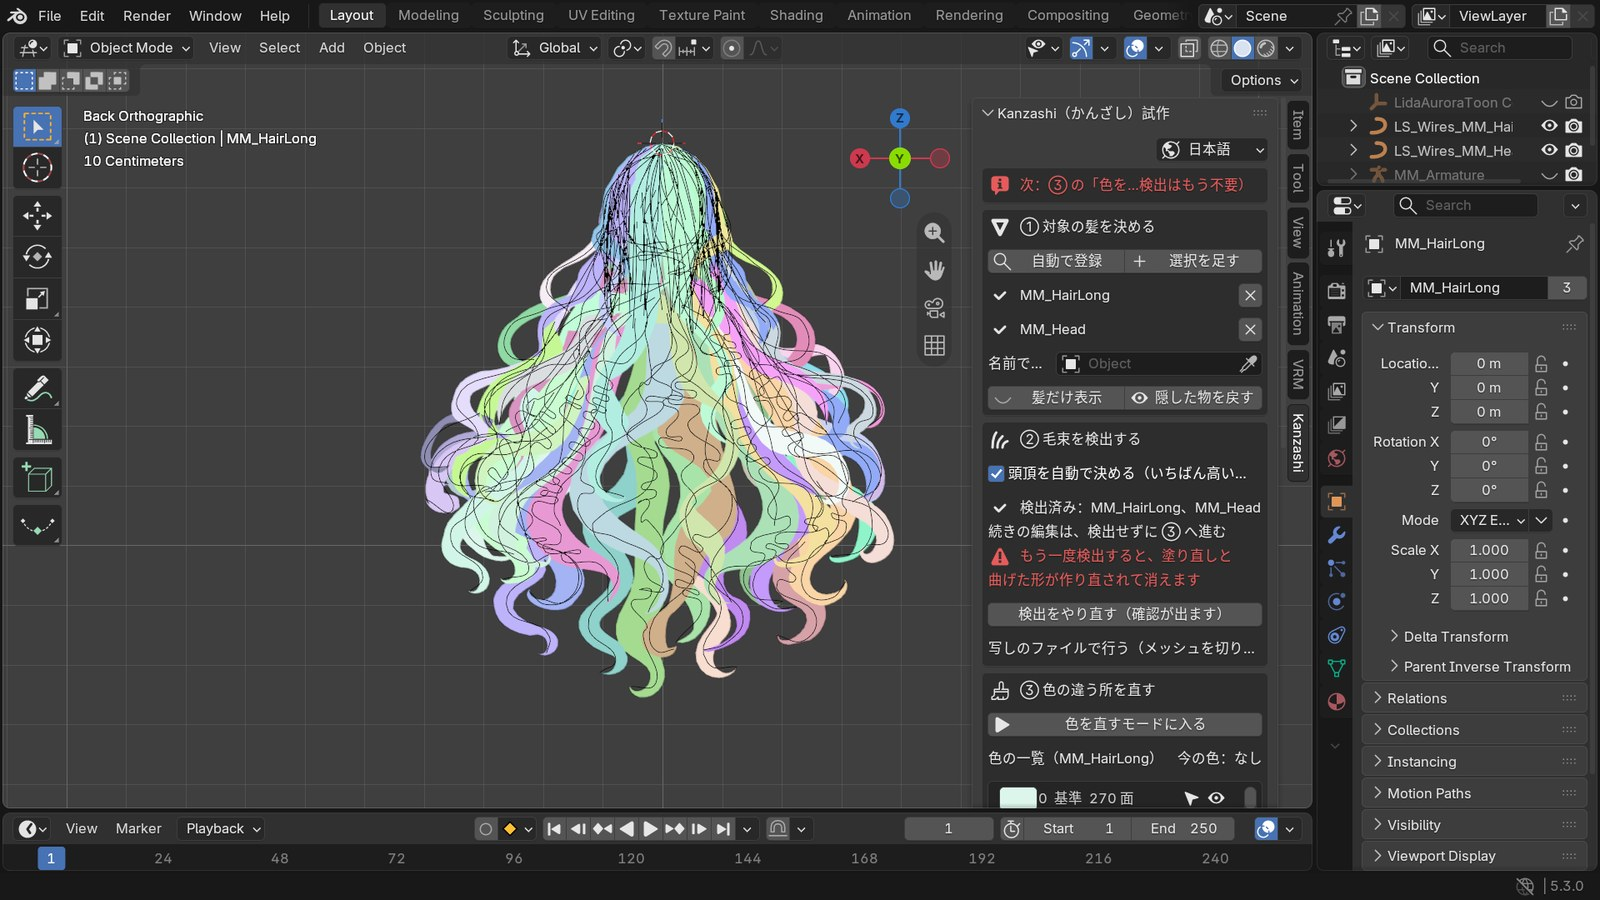
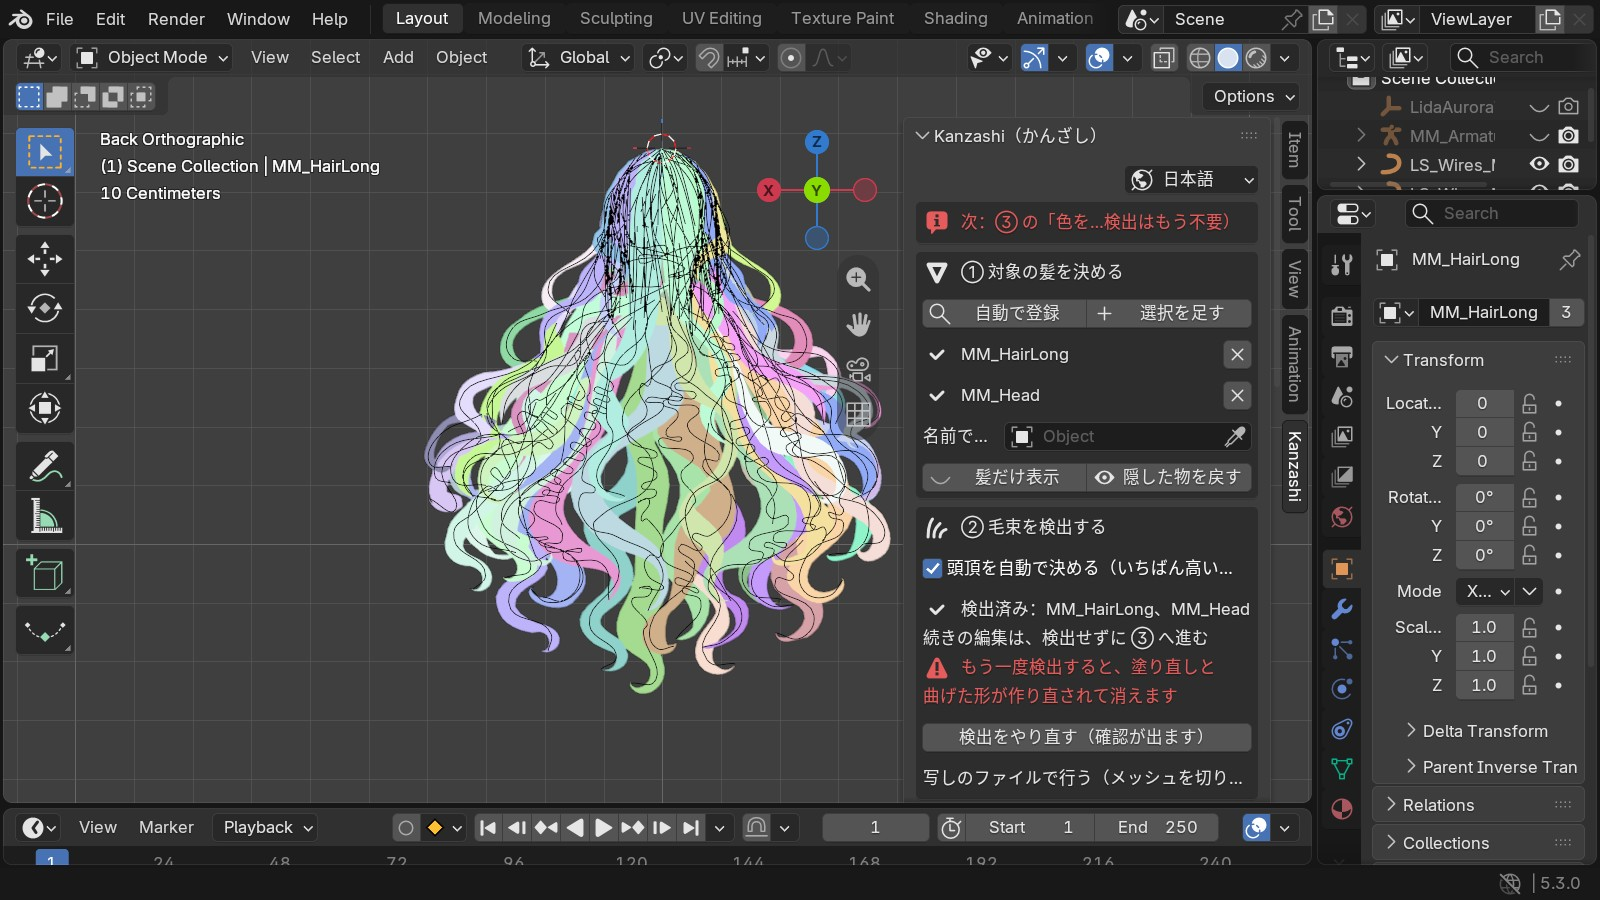
0.4.2: no "prototype" in the panel title; panel picture retaken
Behaviour is the same as 0.4.1. The README picture of the panel (docs/shot_panel.jpg) is
taken again with this code, so its title no longer says prototype.

Changed region(s): [[0.0, 0.0, 1.0, 0.9956]]

diff --git a/kanzashi/__init__.py b/kanzashi/__init__.py
@@ -9,7 +9,7 @@ without the panel (scripts/kanzashi_run.py)."""
 bl_info = {
     "name": "Kanzashi",
     "author": "Lida",
-    "version": (0, 4, 1),
+    "version": (0, 4, 2),
     "blender": (5, 3, 0),
     "location": "3D Viewport > Sidebar (N) > Kanzashi",
     "description": "Hair strands of generated meshes: detect, repaint, bend by wires, UV per strand",

diff --git a/README.en.md b/README.en.md
@@ -12,7 +12,7 @@
 Kanzashi is a Blender add-on that lets you work on a generated hair mesh strand by strand.
 It splits the hair into strands, lets you fix the split by painting, bends each strand by a wire, and makes a UV map with one island per strand.
 
-- Version: 0.4.1
+- Version: 0.4.2
 - Tested with: Blender 5.3.0 on Windows 11. Other versions are untested.
 - Author: Lida
 - Lida × Tripo official collaboration
@@ -92,8 +92,8 @@ When an agent uses it, there is also a script that finds and fixes strands runni
 
 | What | BOOTH | GitHub |
 |---|---|---|
-| The add-on (install in Blender, use the panel) `Kanzashi-addon-0.4.1.zip` | yes | yes ([Release](https://github.com/Lida-V/Kanzashi/releases)) |
-| The scripts that run without the panel `Kanzashi-scripts-0.4.1.zip` | no | yes ([Release](https://github.com/Lida-V/Kanzashi/releases)) |
+| The add-on (install in Blender, use the panel) `Kanzashi-addon-0.4.2.zip` | yes | yes ([Release](https://github.com/Lida-V/Kanzashi/releases)) |
+| The scripts that run without the panel `Kanzashi-scripts-0.4.2.zip` | no | yes ([Release](https://github.com/Lida-V/Kanzashi/releases)) |
 | The skill for agents (`skills/kanzashi/`, with the script that finds and fixes buried strands) | no | yes (in this repository only) |
 
 - BOOTH (free): https://lidamidorin.booth.pm/items/9167843 . Only the add-on is there.
@@ -101,7 +101,7 @@ When an agent uses it, there is also a script that finds and fixes strands runni
 
 ## Install (add-on)
 
-1. Get `Kanzashi-addon-0.4.1.zip` (from BOOTH or the GitHub Release; `python tools/build_packages.py` also makes it in `dist/`).
+1. Get `Kanzashi-addon-0.4.2.zip` (from BOOTH or the GitHub Release; `python tools/build_packages.py` also makes it in `dist/`).
 2. In Blender, open Edit > Preferences > Add-ons, choose "Install from Disk" in the menu at the top right, and pick the ZIP (it is installed as an extension).
 3. Enable "Kanzashi".
 4. Open the sidebar of the 3D viewport (N key). There is a "Kanzashi" tab.
@@ -202,7 +202,7 @@ Press "Make the Strand UV". It takes tens of seconds. The result of the check is
 
 - "Apply Shape and Remove Setup" writes the bent shape into the mesh and removes the wires. After that you cannot bend again.
 
-The screens are from 0.4.1. The hair in the pictures is an example and is not in the repository.
+The screens are from 0.4.1 (0.4.2 differs only in the panel title). The hair in the pictures is an example and is not in the repository.
 
 When you come back to edit more, **do not detect again**; go to step 3. A second detection rebuilds everything, and your repainting and bending are lost.
 
@@ -221,7 +221,7 @@ The brush paints whole faces, so the size of the faces is the finest detail you 
 
 ## Without the panel (script)
 
-Unpack `Kanzashi-scripts-0.4.1.zip` and run it in the background. The opened file is not saved. It stops if the output already exists.
+Unpack `Kanzashi-scripts-0.4.2.zip` and run it in the background. The opened file is not saved. It stops if the output already exists.
 
 ```bash
 blender -b model.blend --python kanzashi_run.py -- --out model_kanzashi.blend --export hair.fbx --report report.json

diff --git a/CHANGELOG.md b/CHANGELOG.md
@@ -1,11 +1,13 @@
 # 変更履歴
 
-## 未リリース
+## 0.4.2
 
+- 「試作」の文言を外した（パネルの見出しは「Kanzashi（かんざし）」、README・変更履歴・スキル）。動きは 0.4.1 と同じ。
+- README（日本語・英語）：冒頭に「リダ × Tripo 公式コラボ」とロゴ（明暗のテーマで出し分け）を入れた。ソーシャルプレビュー画像（`docs/kanzashi_ogp.png`）も同じ表示に。
 - README（日本語・英語）：どういうアドオンか、何ができるかを図で説明した。図は `tools/make_figures.py` が描く模式図（`docs/fig_*.svg`）。実際の髪で撮った画像（パネルの画面、毛束ごとの色、曲げた例）も入れた。「使う順番」を、段ごとのパネルの画面つきの手順にした（`docs/step1〜6.ja.png`・`.en.png`）。配布している場所（BOOTH はアドオンだけ、GitHub はアドオン・スクリプト・スキル）を書いた。
 - スキル：工程の位置を決まりにした。頭と髪のパーツ分けの後、テクスチャを貼り直す前に行う。手順 0 で順番を確かめ、逆のときはユーザーに聞く。
 
-English: the READMEs now explain with figures what the add-on is and what it does (`docs/fig_*.svg`, drawn by `tools/make_figures.py`); the skill now fixes the place in the pipeline (after the head and the hair are split into parts, before the textures are redone) and checks it in step 0.
+English: the word "prototype" is gone (the panel title is now "Kanzashi（かんざし）"; behaviour is the same as 0.4.1); the READMEs show "Lida × Tripo official collaboration" with both logos; the READMEs now explain with figures what the add-on is and what it does (`docs/fig_*.svg`, drawn by `tools/make_figures.py`); the skill now fixes the place in the pipeline (after the head and the hair are split into parts, before the textures are redone) and checks it in step 0.
 
 ## 0.4.1
 
